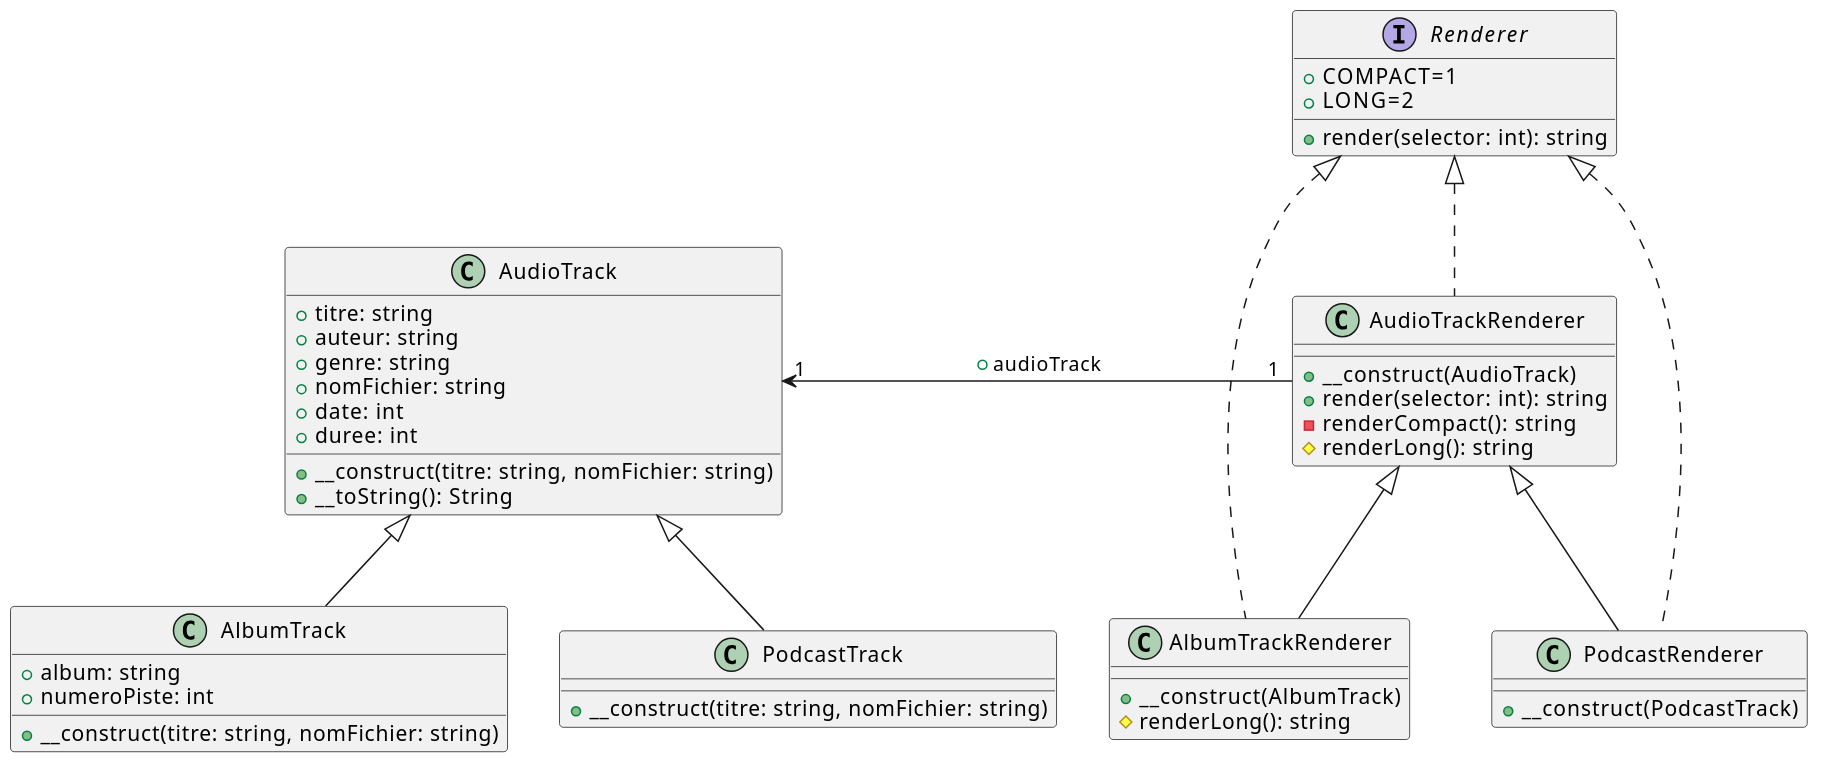
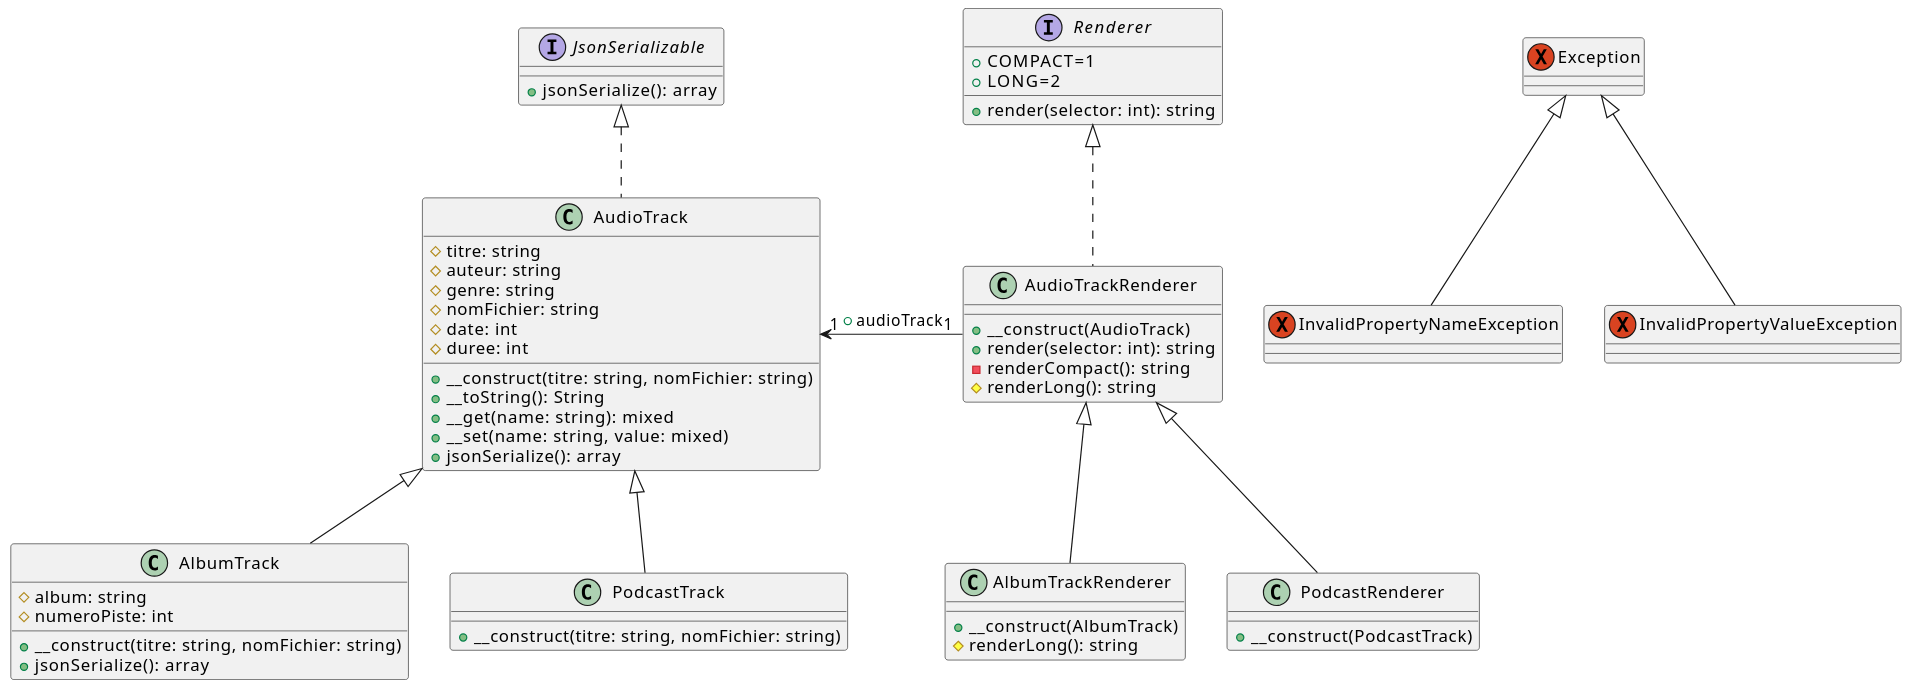
td5.1, td5.2 passe les attributs en protected et met des getters/setters. Ajoute des Exceptions pour les différents problèmes.

diff --git a/AudioTrack.php b/AudioTrack.php
@@ -1,8 +1,10 @@
 <?php
 declare(strict_types=1);
-class AudioTrack {
-    public string $titre, $auteur, $genre, $nomFichier;
-    public int $date, $duree;
+require_once("InvalidPropertyValueException.php");
+require_once("InvalidPropertyNameException.php");
+class AudioTrack implements JsonSerializable {
+    protected string $titre, $auteur, $genre, $nomFichier;
+    protected int $date, $duree;
 
     public function __construct(string $titre, string $nomFichier) {
         $this->titre = $titre;
@@ -16,6 +18,25 @@ class AudioTrack {
     public function __toString(): string {
         $res = json_encode($this);
         return $res;
+    }
+
+    public function __get(string $name): mixed {
+        if (property_exists($this, $name)) {
+            return $this->$name;
+        }
+        throw new InvalidPropertyNameException("invalid property : <$name>");
+        return null;
+    }
+
+    public function __set(string $name, mixed $value) {
+        $this->$name = $value;
+        if ($name == "duree" && $value < 0) {
+            throw new InvalidPropertyValueException("Durée de la piste négative. ");
+        }
+    }
+
+    public function jsonSerialize(): array {
+        return array("titre" => $this->titre, "auteur" => $this->auteur, "genre" => $this->genre, "nomFichier" => $this->nomFichier, "date" => $this->date, "duree" => $this->duree);
     }
 }
 ?>

diff --git a/main.php b/main.php
@@ -29,18 +29,22 @@
             // print_r n'affiche que les attributs initialisés, tandis que var_dump affiche tout. 
 
             $podcast1 = new PodcastTrack("Hondelatte raconte", "hondelatte_raconte.mp3");
-            echo $podcast1;
+            echo "<br>\$podcast1 : $podcast1<br>";
             var_dump($podcast1);
 
-            $albumRenderer = new AlbumTrackRenderer($track1);
-            $podcastRenderer = new PodcastRenderer($podcast1);
-            echo "<br><br><br>";
-            echo $albumRenderer->render(1);
-            echo $podcastRenderer->render(1);
+            try {
+                $albumRenderer = new AlbumTrackRenderer($track1);
+                $podcastRenderer = new PodcastRenderer($podcast1);
+                echo "<br><br>";
+                echo $albumRenderer->render(1);
+                echo $podcastRenderer->render(1);
 
-            echo "<br><br><br>";
-            echo $podcastRenderer->render(2);
-            echo $albumRenderer->render(2);
+                echo "<br>";
+                echo $podcastRenderer->render(2);
+                echo $albumRenderer->render(2);
+            } catch (Exception $e) {
+                echo "<p>Problème :  {$e->getMessage()}. </p>";
+            }
         ?>
     </body>
 </html>

diff --git a/AlbumTrack.php b/AlbumTrack.php
@@ -2,13 +2,20 @@
 declare(strict_types=1);
 require_once "AudioTrack.php";
 class AlbumTrack extends AudioTrack{
-    public string $album;
-    public int $numeroPiste;
+    protected string $album;
+    protected int $numeroPiste;
 
     public function __construct(string $titre, string $nomFichier) {
         parent::__construct($titre, $nomFichier);
         $this->album="Rubi";
         $this->numeroPiste=3;
+    }
+
+    public function jsonSerialize(): array {
+        $attributs = parent::jsonSerialize();
+        $attributs["album"] = $this->album;
+        $attributs["numeroPiste"] = $this->numeroPiste;
+        return $attributs;
     }
 }
 ?>

diff --git a/AlbumTrackRenderer.php b/AlbumTrackRenderer.php
@@ -5,7 +5,7 @@ require_once "AudioTrack.php";
 require_once "Renderer.php";
 require_once "AudioTrackRenderer.php";
 
-class AlbumTrackRenderer extends AudioTrackRenderer implements Renderer{
+class AlbumTrackRenderer extends AudioTrackRenderer {
 
     public function __construct(AlbumTrack $albumTrack) {
         parent::__construct($albumTrack);

diff --git a/PodcastRenderer.php b/PodcastRenderer.php
@@ -5,7 +5,7 @@ require_once "PodcastTrack.php";
 require_once "Renderer.php";
 require_once "AudioTrackRenderer.php";
 
-class PodcastRenderer extends AudioTrackRenderer implements Renderer {
+class PodcastRenderer extends AudioTrackRenderer {
     private PodcastTrack $podcastTrack;
 
     public function __construct(PodcastTrack $podcastTrack) {

diff --git a/InvalidPropertyValueException.php b/InvalidPropertyValueException.php
@@ -1,0 +1,9 @@
+<?php
+declare(strict_types=1);
+
+class InvalidPropertyValueException extends Exception {
+    public function __construct(string $message) {
+        parent::__construct($message);
+    }
+}
+?>

diff --git a/InvalidPropertyNameException.php b/InvalidPropertyNameException.php
@@ -1,0 +1,9 @@
+<?php
+declare(strict_types=1);
+
+class InvalidPropertyNameException extends Exception {
+    public function __construct(string $message) {
+        parent::__construct($message);
+    }
+}
+?>
